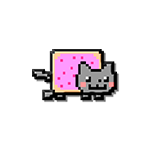
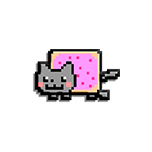
Work on jumping

Changed region(s): [[0.2105, 0.3158, 0.7895, 0.6842]]

diff --git a/js/app.js b/js/app.js
@@ -33,7 +33,8 @@ function gameBegin(key) {
 // canvas bounds
 var rightBound = 760,
 	leftBound = 0;
-
+// first level
+var level = 1;
 
 
 
@@ -50,7 +51,7 @@ var Sonic = function() {
 	this.lives = 3;
 
 	// set initial level to 1
-	this.level = 1;
+	// this.level = 1;
 
 	this.jumpSpeed = 20;
 	// initialize sonic as alive
@@ -85,8 +86,10 @@ Sonic.prototype.handleInput = function(key) {
 		if (this.newGame)
 			this
 		*/
-	if (key === "space" || key === "enter")
+	if (key === "space" || key === "enter") {
 		sonicSprite.jump(key);
+		keyIsDown = true;
+	}
 };
 
 Sonic.prototype.loseLife = function() {
@@ -106,16 +109,6 @@ Sonic.prototype.loseLife = function() {
 
 Sonic.prototype.jump = function() {
 	
-	/*
-	var jumpImg = sonicSprite; //Resources.get("images/sonicstill.png");
-	var pat = ctx.createPattern(jumpImg, "no-repeat");
-
-	ctx.beginPath();
-	ctx.strokeStyle = pat;
-	ctx.moveTo(30, 250);
-	ctx.lineTo(30, 75);
-	ctx.stroke();
-	*/
 };
 
 /*
@@ -135,7 +128,7 @@ var Zombie = function() {
 	this.setSpeed();
 
 	// max number of zombies
-	this.maxNumber = 5 + sonic.level;
+	this.maxNumber = 5 + level;
 
 	// set random values to help with random spawn times
 	this.setRandom1();
@@ -220,14 +213,13 @@ Zombie.prototype.setSpeed = function() {
 	var randomMult = Math.floor(Math.random() * (20 - 1 + 1)) + 1;
 
 	// set random speed, with min being 41
-	this.speed = - (30 + randomMult + (10 * sonic.level));
+	this.speed = - (110 + randomMult + (10 * level));
 };
 
 /*
 	Set first random number - used for random spawn times
 */
 Zombie.prototype.setRandom1 = function() {
-	// set spawnTime between 10 and 10000
 	this.random1 = Math.floor(Math.random() * (750 - 10 + 1)) + 10;
 };
 
@@ -253,7 +245,7 @@ var NyanCat = function() {
 
 	// set x and y coordinates
 	this.setSpawnLocation();
-	this.y = 75;
+	this.y = 50;
 
 	// set cat speed
 	this.setSpeed();
@@ -301,7 +293,7 @@ NyanCat.prototype.setSpawnLocation = function() {
 	Set speed of cat based on sonic's level
 */
 NyanCat.prototype.setSpeed = function() {
-	this.speed = - (35 + (10 * sonic.level));
+	this.speed = - (35 + (10 * level));
 };
 
 
@@ -322,6 +314,8 @@ var BkgdImages = function(x, y, img, speed) {
 
 	this.setSpeed();
 	this.speed = speed * this.speedMult;
+
+	console.log("bkdg image");
 };
 
 /*
@@ -346,7 +340,7 @@ BkgdImages.prototype.render = function() {
 	Set speed of background images so sonic appears to be moving
 */
 BkgdImages.prototype.setSpeed = function() {
-	this.speedMult = - (20 + (10 * sonic.level));
+	this.speedMult = - (20 + (10 * level));
 };
 
 /*
@@ -364,26 +358,6 @@ BkgdImages.prototype.boundsCheck = function() {
 // gameBegin();
 
 
-
-// create new instance of sonic
-var sonic = new Sonic();
-console.log("sonic is instantiated");
-
-
-// Place zombie objects in array called zombies
-var zombies = [];
-var zombie = new Zombie();
-zombies.push(zombie);
-console.log(zombies.length);
-console.log(zombie.location);
-
-
-// Place nyancat objects in array called nyancats
-var nyancats = [];
-var cat = new NyanCat();
-nyancats.push(cat);
-
-
 // Place background images in array called bkgdImgs
 var bkgdImgs = [];
 var cactusSprite = "images/cactus.png",
@@ -399,17 +373,49 @@ bkgdImgs.push(cactus);
 var rock = new BkgdImages(515, 210, rockSprite, 1);
 bkgdImgs.push(rock);
 
+// Place zombie objects in array called zombies
+var zombies = [];
+var zombie = new Zombie();
+zombies.push(zombie);
+console.log(zombies.length);
+console.log(zombie.location);
+
+
+// Place nyancat objects in array called nyancats
+var nyancats = [];
+var cat = new NyanCat();
+nyancats.push(cat);
+
+// create new instance of sonic
+var sonic = new Sonic();
+console.log("sonic is instantiated");
 
 
 // Listen for key presses and send input to handleInput()
-document.addEventListener("keydown", function(e) {
+/*
+function keyInput(e) {
 	var allowedKeys = {
 		13: "enter",
 		32: "space"
 	};
 
-	// sonicSprite.jump(allowedKeys[e.keyCode]);
-	// gameBegin(allowedKeys[e.keyCode]);
+	sonic.handleInput(allowedKeys[e.keyCode]);
+}
+document.addEventListener("keydown", keyInput);
+document.addEventListener("keypress", keyInput);
+document.addEventListener("keyup", keyInput);
+*/
+var keyIsDown;
+
+document.addEventListener("keydown", function(e) {
+	var allowedKeys = {
+		13: "enter",
+		32: "space"
+	};
+	
+	// keyIsDown = true;
+
 	sonic.handleInput(allowedKeys[e.keyCode]);
 });
+
 

diff --git a/js/engine.js b/js/engine.js
@@ -124,19 +124,20 @@ var Engine = (function(global) {
 		the render functions specific to each game entity
 	*/
 	function renderEntities() {
-		sonic.render();
-
-		zombies.forEach(function(zombie) {
-			zombie.render();
+		bkgdImgs.forEach(function(img) {
+			img.render();
 		});
 
 		nyancats.forEach(function(cat) {
 			cat.render();
 		});
 
-		bkgdImgs.forEach(function(img) {
-			img.render();
+		sonic.render();
+
+		zombies.forEach(function(zombie) {
+			zombie.render();
 		});
+
 	}
 
 	/*
@@ -155,26 +156,9 @@ var Engine = (function(global) {
 		"images/sky2.png",
 		"images/sky1.png",
 		"images/sand1.png",
-		// "images/sand2.png",
 		"images/sonicrunningsheet.png",
 		"images/sonicstill.png",
 		"images/sonicsprites.png",
-		/*
-		"images/sonicmoving1.png",
-		"images/sonicfast1.png",
-		"images/sonicfast2.png",
-		"images/sonicfast3.png",
-		"images/sonicfast4.png",
-		"images/sonicball1.png",
-		"images/sonicball2.png",
-		"images/sonicball3.png",
-		"images/sonicball4.png",
-		"images/sonicball5.png",
-		"images/sonicball6.png",
-		"images/sonicball7.png",
-		"images/sonicball8.png",
-		"images/sonicball9.png",
-		*/
 		"images/sonicjumping.png",
 		"images/nyancat.png",
 		"images/zombie.png",

diff --git a/js/sprites.js b/js/sprites.js
@@ -66,11 +66,11 @@ var Sprites = (function(global) {
 					if (obj.y > 50)
 						obj.y -= 20;
 					else if (obj.y == 50)
-						obj.y += 20;
+						obj.y = 50;
 				break;
 				case 3:
 					if (obj.y < 250) {
-						obj.y += 20;
+						obj.y += 10;
 						obj.image = jumpingSpriteImg;
 						obj.numberOfFrames = 9;
 					}
@@ -102,9 +102,9 @@ var Sprites = (function(global) {
 
 				setTimeout(function() {
 					obj.jumping = 3;
-				}, 750);
+				}, 1500);
 			}
-
+			
 			console.log("jumping");
 		};
 
